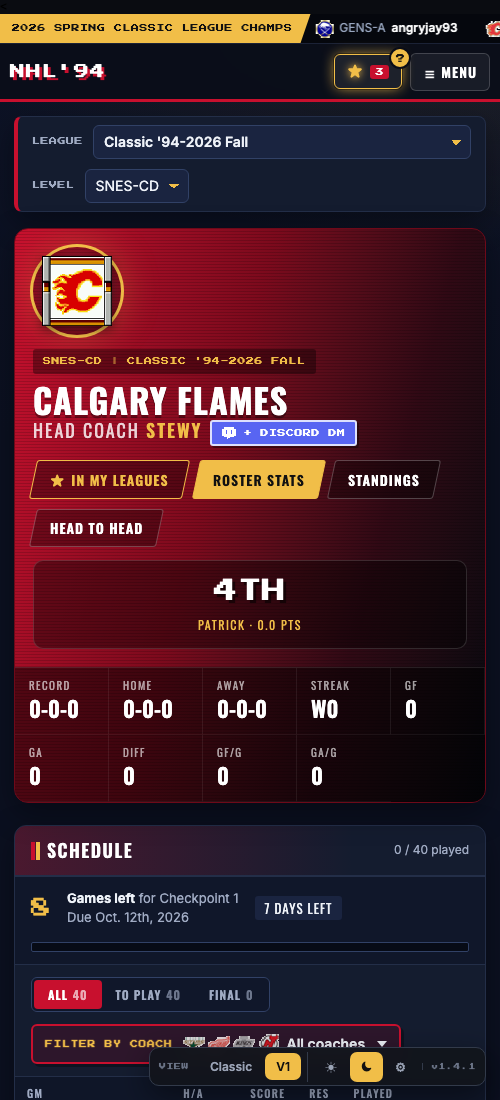
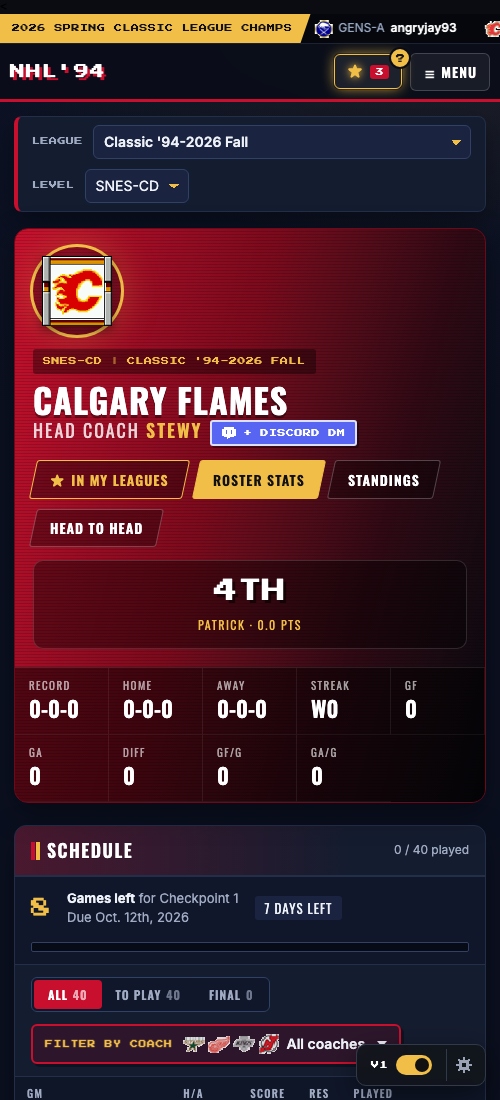
docs: Settings guide with screenshots of every menu, linked from the README
Covers getting around, each menu, that everything is saved only in your own
browser, and that Discord links are personal and won't work for anyone else.
Screenshots refreshed for the new corner switch and league bar.

Changed region(s): [[0.3, 0.9273, 0.96, 1.0], [0.63, 0.0, 0.9, 0.0309], [0.96, 0.0, 1.0, 0.0309]]

diff --git a/docs/SETTINGS.md b/docs/SETTINGS.md
@@ -1,0 +1,112 @@
+# ⚙ Settings
+
+Click the **⚙ gear** in the bottom-right corner of any redesigned page. Settings opens as a menu styled after RetroArch's, so it should feel familiar.
+
+![Settings main menu](screenshots/settings-main.png)
+
+> 🔒 **Everything here is saved only in your own browser.** There's no account, no server and nothing uploaded. Another browser, another computer or a private window starts empty. To move your setup, use [Backup & Restore](#backup--restore).
+
+## Getting around
+
+| Key | Does |
+| --- | --- |
+| **↑ / ↓** | Move the `>` cursor |
+| **Enter** or **→** | Open the row (rows ending in `...` open a submenu) |
+| **← / →** | Change a value in place, like Colour Mode |
+| **Esc**, **←** or **Backspace** | Go back. On the main menu, close Settings |
+
+The mouse works too: point at a row and click it. **‹ Back** / **✕ Close** sits in the top-left corner. The gold line along the bottom explains the highlighted row and says where that setting is saved.
+
+Rows that delete something need **two presses**. The first press shows **Press again** in red, and the second press does it. If you wait a few seconds, it cancels itself.
+
+![Press again to confirm](screenshots/settings-reset.png)
+
+## The bottom-right corner
+
+| On | Off |
+| --- | --- |
+| ![Switch on](screenshots/switch-on.png) | ![Switch off](screenshots/switch-off.png) |
+
+- **The switch** turns the new look on and off in one click. Off shows the original nhl94online.com page exactly as it is. **Alt + Shift + V** flips it from the keyboard.
+- **The gear** opens Settings.
+
+## My Leagues
+
+![My Leagues menu](screenshots/settings-my-leagues.png)
+
+The coach pages you saved with **★ Add to My Leagues**, one per league or level. Press Enter on one to open it. **Clear My Leagues** removes them all.
+
+To rename or reorder them, use **★ My Leagues → Manage** in the top bar.
+
+## Discord DMs
+
+![Discord DMs menu](screenshots/settings-discord.png)
+
+Link a coach once, and their **CHAT** button opens your Discord DM with them in one click. It's handy for asking "want to play?" right away.
+
+- **Link a Coach** lists the coaches in the league you're looking at, plus **Type a Name** for anyone else.
+- Pick a linked coach to **Open DM**, **Change Link** or **Remove Link**.
+- **Clear All Links** forgets every link.
+
+![One coach's options](screenshots/settings-discord-coach.png)
+
+### Linking a coach
+
+![Link Discord page](screenshots/settings-link-discord.png)
+
+1. In Discord, open your DM with them. If you've never chatted, send them a message first.
+2. Right-click any message in that DM and pick **Copy Message Link**.
+3. Paste it and press **Enter**.
+
+You can also press **+ DM** next to any coach name on a coach page (on the team card, beside each opponent, or in **Filter by Coach**). It opens this same page for that coach.
+
+> ⚠ **Your Discord links only work for you.** The link points to *your* private DM with that coach. Discord only opens it for the two people in that conversation. If you send it to someone else, or they restore your backup, it won't open anything for them. Everyone links their own coaches.
+
+Profile links (`discord.com/users/…`) aren't accepted, because Discord can't open a DM from a profile. Links saved before that rule show **Profile** instead of **Chat** until you change them.
+
+## Colour Mode
+
+**Day** or **Night**. Press Enter or ← / → on the main menu to switch. It applies to every redesigned page.
+
+## Tips & Intros
+
+![Tips and Intros menu](screenshots/settings-intros.png)
+
+Missed a walkthrough or skipped it too fast? Press Enter to play it again:
+
+- **My Leagues Intro:** the puck that shows how to add a team to My Leagues.
+- **Discord DM Intro:** the cursor that shows how to link a coach's DM.
+
+## Schedule Filters
+
+![Schedule Filters menu](screenshots/settings-filters.png)
+
+Each coach page remembers its own **Filter by Coach** picks, its **All / To Play / Final** tab and which opponents you folded up. This menu lists every page that has saved filters. Press Enter (twice) to clear one page, or use **Clear All Filters**. Reload the coach page to see the change.
+
+## Backup & Restore
+
+![Backup and Restore menu](screenshots/settings-backup.png)
+
+- **Download Backup** saves My Leagues, your Discord links and every setting into one `.json` file on your computer.
+- **Restore from File** loads a backup on another browser or computer. Settings first shows what's in the file: how many leagues, links and settings. Nothing changes until you press **Restore** twice. Restoring **replaces** what's saved now, then reloads the page.
+
+Keep the file to yourself. It holds your personal Discord DM links, and they're no use to anyone else anyway (see above).
+
+## Reset Everything
+
+Clears My Leagues, Discord links and every setting in this browser, then reloads the page. It's the same as a fresh install. Download a backup first if you might want any of it back.
+
+## What's saved, and where
+
+All of it stays in this browser:
+
+| Setting | Saved as |
+| --- | --- |
+| My Leagues | `myLeagues` in Tampermonkey's storage (shared by `www.` and plain `nhl94online.com`) |
+| Discord links | `coachLinks` in Tampermonkey's storage |
+| Colour mode | `nx:theme` in the browser's storage for nhl94online.com |
+| New look on / off | `nx:view` and `nx:lastView` |
+| Intros seen | `nx:mlIntro`, `nx:dcIntro` |
+| Schedule filters | `nx:opp:<team>`, `nx:mode:<team>`, `nx:collapsed:<team>` (one set per coach page) |
+
+[← Back to the README](../README.md)

diff --git a/INSTALL.md b/INSTALL.md
@@ -29,7 +29,7 @@ Not sure? Pick **Stable**. You can switch any time.
    - Turn on **Allow User Scripts**.
    - On older Chrome versions that don't have this toggle, turn on **Developer mode** (top-right of `chrome://extensions`) instead.
 4. **Install the script.** Click the install link for [your channel](#pick-a-channel). Most people want **[Install Stable](https://raw.githubusercontent.com/codystewy/nhl94-its-in-the-script/stable/nhl94-its-in-the-script.user.js)**. Tampermonkey opens an install screen. Click **Install**.
-5. **Check it works.** Open [nhl94online.com](https://www.nhl94online.com). You should see the new look and a **VIEW · Classic · V1** switcher in the bottom-right corner.
+5. **Check it works.** Open [nhl94online.com](https://www.nhl94online.com). You should see the new look, and an on/off switch and a ⚙ gear in the bottom-right corner.
 
 ## Brave
 
@@ -61,9 +61,9 @@ Firefox doesn't need an extra toggle.
 
 ## Using it
 
-- **Switch looks:** use the **VIEW** switcher in the bottom-right corner (**Classic** is the original site), or press **Alt + Shift + V**.
+- **Switch looks:** flip the switch in the bottom-right corner (off is the original site), or press **Alt + Shift + V**. Day / Night lives in **⚙ Settings**, explained in the [Settings guide](docs/SETTINGS.md).
 - **Pin your team:** on your coach page, press **☆ Set as my team**. The home page then shows a shortcut to your schedule.
-- **Which channel am I on?** Look at the far right of the VIEW switcher. Stable shows just the version (`v1.4.1`). Latest and Fun show a longer number plus a gold **LATEST** or **FUN** tag (`v1.4.1.57 LATEST`).
+- **Which channel am I on?** Open **⚙ Settings** (bottom-right gear) and look at the top right. Stable shows just the version (`v1.4.1`). Latest and Fun show a longer number plus **LATEST** or **FUN** (`v1.4.1.57 LATEST`).
 - **Updates** arrive on their own. Tampermonkey checks for a new version about once a day. To check right away, open the Tampermonkey dashboard and do one of these:
   - On the **Installed userscripts** tab, click the date in the **Last updated** column next to the script.
   - Or go to **Utilities** and click **Check for userscript updates**.
@@ -75,7 +75,7 @@ Each channel shows up in Tampermonkey as its own script: *NHL94 – It's In The 
 1. Open the Tampermonkey dashboard (click the Tampermonkey icon → **Dashboard**).
 2. Turn **off** the channel you're leaving with its toggle, or delete it with the trash-can icon.
 3. Click the install link for the new channel in [Pick a channel](#pick-a-channel), then **Install**.
-4. Reload nhl94online.com and check the label at the right end of the VIEW switcher.
+4. Reload nhl94online.com, open **⚙ Settings** and check the version at the top right.
 
 Your saved stuff (My Leagues, filters, Day/Night, view) is shared, so it comes with you when you switch.
 
@@ -85,10 +85,10 @@ Your saved stuff (My Leagues, filters, Day/Night, view) is shared, so it comes w
 
 | Problem | Fix |
 | --- | --- |
-| The site looks unchanged and there's no VIEW switcher | Chrome, Brave or Edge: turn on **Allow User Scripts** (step 3 above), then reload the page. Also check the script is switched **on** in the Tampermonkey dashboard. |
+| The site looks unchanged and there's no switch or ⚙ gear in the corner | Chrome, Brave or Edge: turn on **Allow User Scripts** (step 3 above), then reload the page. Also check the script is switched **on** in the Tampermonkey dashboard. |
 | Tampermonkey's icon shows a warning about Developer mode | Same fix: turn on **Allow User Scripts** for Tampermonkey. |
 | Clicking the install link just shows code | Tampermonkey isn't installed or is turned off. Install it, then click the link again. |
 | Only some pages look different | That's expected. Pages are redesigned one at a time, and the rest stay classic for now. |
-| I want the old site back | Click **Classic** in the VIEW switcher. Or turn the script off in Tampermonkey. |
-| I switched channels but nothing changed | Make sure only one channel is switched on in the dashboard, then reload. The label at the right end of the VIEW switcher shows which one is running. |
+| I want the old site back | Turn the switch in the bottom-right corner off. Or turn the script off in Tampermonkey. |
+| I switched channels but nothing changed | Make sure only one channel is switched on in the dashboard, then reload. The version at the top right of ⚙ Settings shows which one is running. |
 | Uninstall | Tampermonkey dashboard → trash-can icon next to the script. |

diff --git a/README.md b/README.md
@@ -22,6 +22,8 @@ A Tampermonkey userscript that redesigns [nhl94online.com](https://nhl94online.c
 
 <p align="center"><img src="docs/screenshots/feature-dm-howto.png" alt="The how-to card that shows new users how to link a coach's Discord DM" width="640"><br><sub>First time on a coach page? A quick walkthrough shows you how.</sub></p>
 
+<p align="center">🔒 Your links are <b>personal</b>: each one opens <i>your</i> private DM, so it won't work for anyone you share it with.</p>
+
 <br>
 
 ![V1 home page](docs/screenshots/home-v1.png)
@@ -74,26 +76,44 @@ See the full [changelog](CHANGELOG.md) for everything else.
 
 3. Open [nhl94online.com](https://www.nhl94online.com) or any coach page.
 
-The label at the right end of the VIEW switcher shows which channel you're on. To switch, see [Switching channels](INSTALL.md#switching-channels).
+The version at the top right of **⚙ Settings** shows which channel you're on. To switch, see [Switching channels](INSTALL.md#switching-channels).
 
 **Redesigned pages so far:** Home and Coach pages. Pages that haven't been redesigned yet look exactly like the original site.
 
 Updates install automatically. Tampermonkey checks this repo about once a day: Stable updates when a new version is released, and Latest and Fun update with every change.
 
-## Switching views
+## Switching the new look on and off
 
-A **VIEW** switcher sits in the bottom-right corner of every redesigned page:
-
-| View | What it is |
+| On | Off |
 | --- | --- |
-| **Classic** | The original nhl94online.com page, untouched |
-| **V1** | *Rink Night*: a dark NHL 26 broadcast look with 16-bit touches |
+| ![Switch on](docs/screenshots/switch-on.png) | ![Switch off](docs/screenshots/switch-off.png) |
 
-Next to the views there's a **☀ Day / ☾ Night** toggle. Night is the default, and the choice applies to every page.
+The bottom-right corner of every redesigned page has two controls:
 
-The **⚙** gear opens **Settings**, a menu styled after RetroArch's, so it feels right at home. Use the arrow keys and Enter (or the mouse), and ← / Esc to go back. It lists everything the script has saved in your browser (My Leagues, Discord links, look, intros, schedule filters) and clears one part at a time. It's also where you link coaches' Discord DMs, replay the intros, and download or restore a backup.
+- **The switch:** one click turns the new look (**V1** · *Rink Night*, a dark NHL 26 broadcast look with 16-bit touches) on or off. Off shows the original nhl94online.com page, untouched. **Alt + Shift + V** does the same.
+- **The ⚙ gear** opens Settings (see below).
 
-The page remembers your choices. Press **Alt + Shift + V** to cycle through the views. New designs are added as new versions; old ones stay available.
+The page remembers your choice. New designs are added as new versions; old ones stay available.
+
+## ⚙ Settings
+
+<p align="center"><img src="docs/screenshots/settings-main.png" alt="The Settings main menu, styled after RetroArch" width="640"></p>
+
+The gear opens a menu styled after RetroArch's, so it feels right at home. Use the arrow keys and Enter (or the mouse), and ← / Esc to go back. From here you can:
+
+- see your **My Leagues** and link coaches' **Discord DMs**
+- switch **Colour Mode** between Day and Night (Night is the default)
+- replay the **intros**
+- clear one coach page's **schedule filters**
+- **back up**, **restore** or **reset** everything
+
+Every row says what it does and where it's saved, and anything that deletes needs a second press.
+
+> 🔒 **Everything is stored only in your own browser.** There's no account and nothing is uploaded. A different browser or computer starts empty, so use **Backup & Restore** to bring your setup along.
+>
+> 💬 **Discord links are personal to you.** Each one opens *your* private DM with that coach. If you share a link (or your backup), it won't open anything for the other person. They link their own coaches.
+
+**[📖 Full Settings guide, with screenshots of every menu →](docs/SETTINGS.md)**
 
 ## What V1 gives you
 
